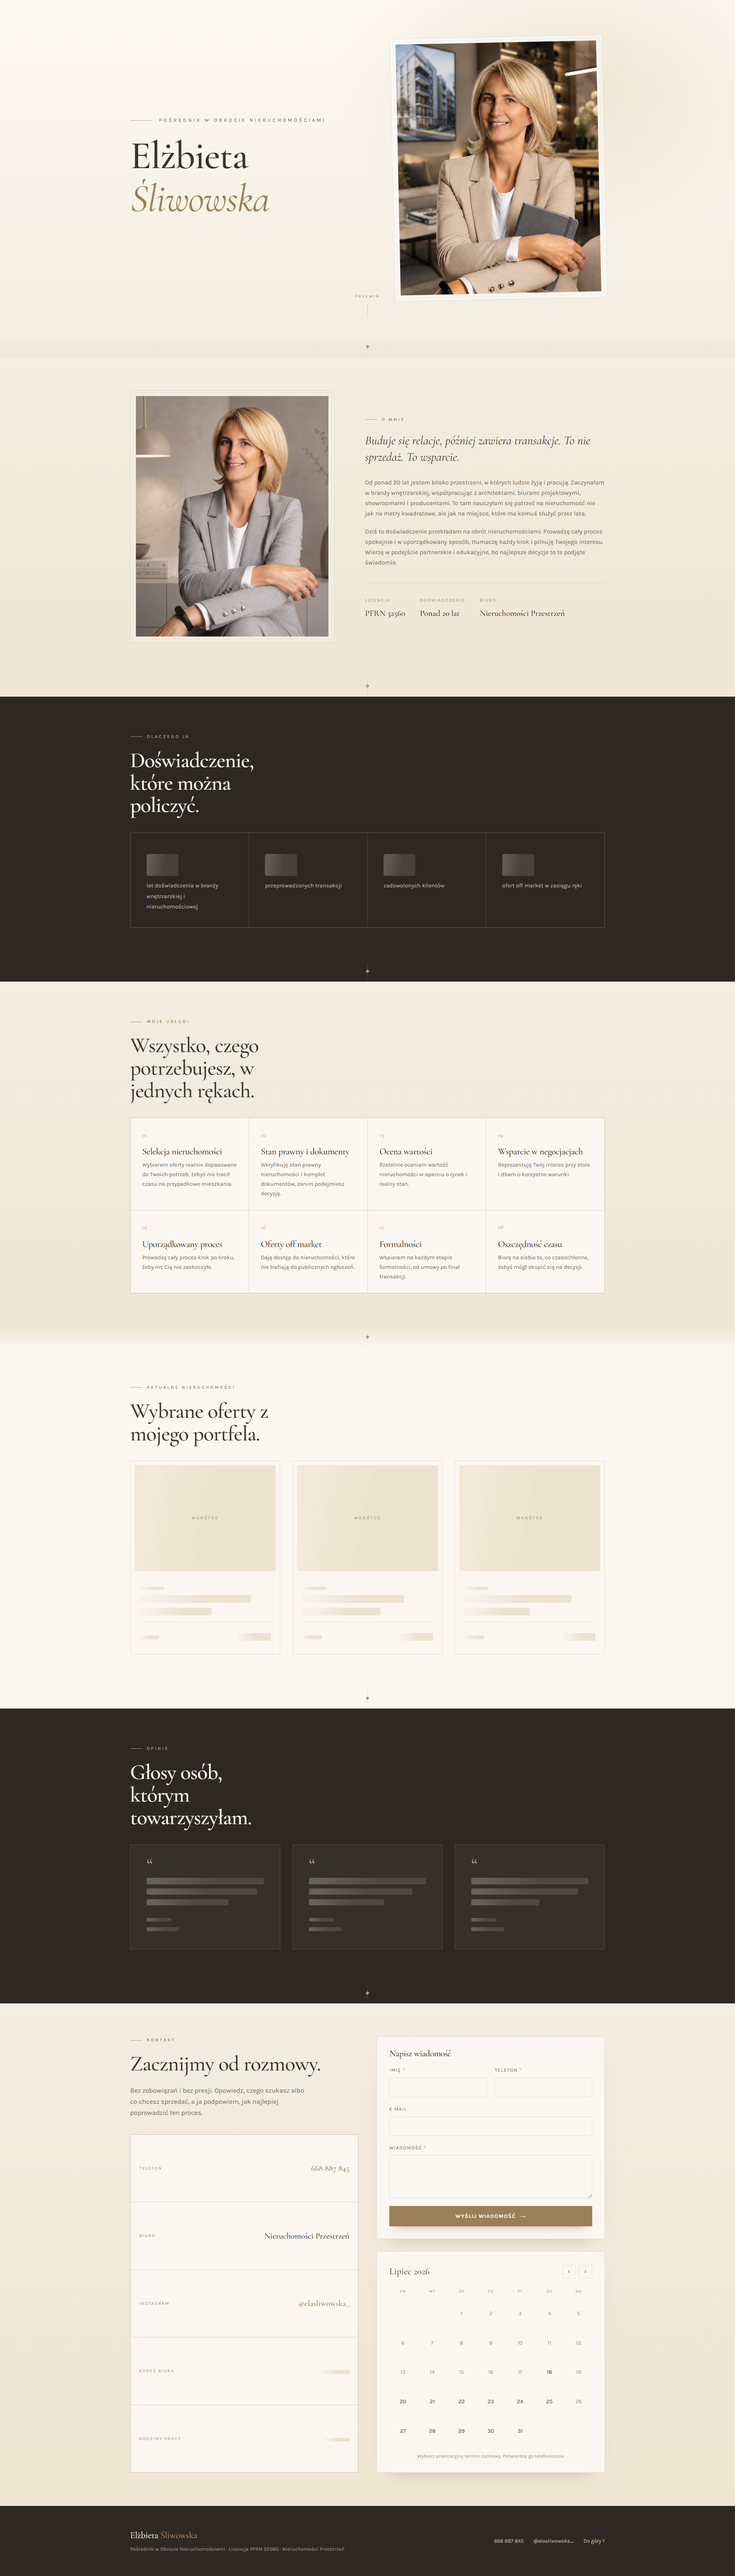
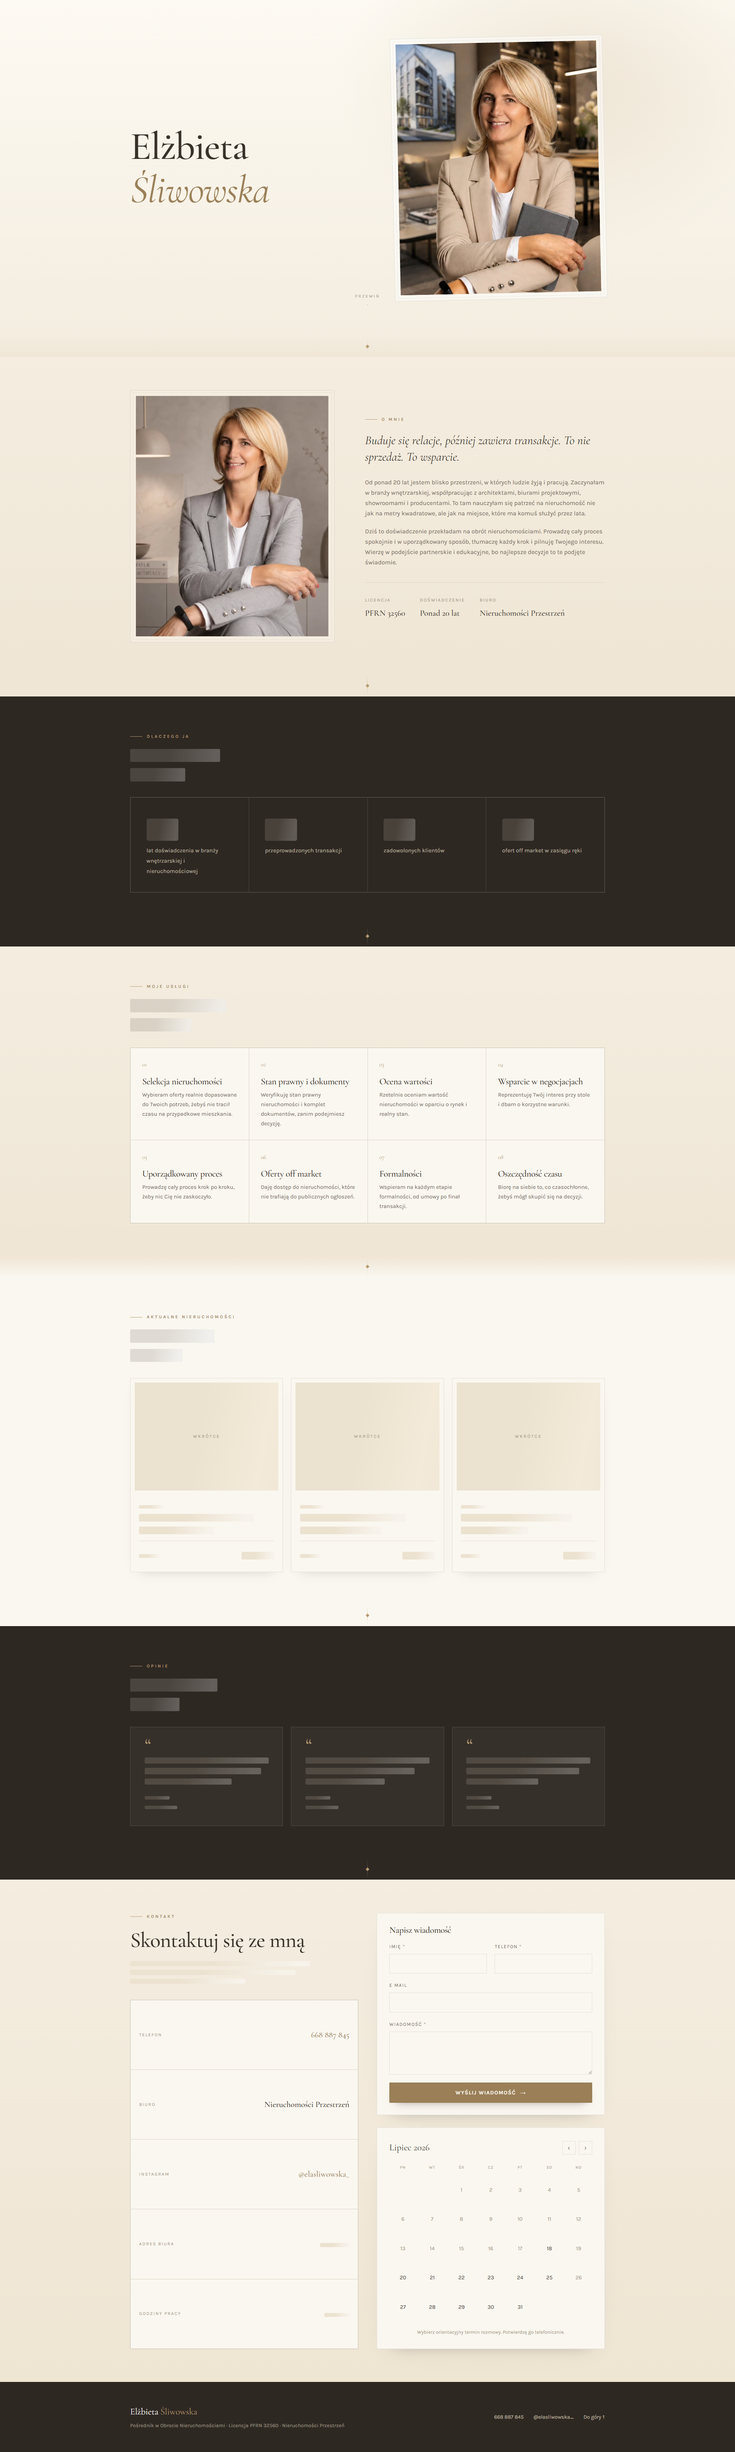
d

diff --git a/index.html b/index.html
@@ -61,6 +61,9 @@ img{display:block;max-width:100%}
 .skel-line{height:.72em;width:7ch;margin-block:.25em}
 .skel-lines{display:flex;flex-direction:column;gap:.55em;width:100%}
 .skel-lines .skel-line{margin:0;height:.78em}
+.h-sec .skel-lines{gap:.28em;max-width:16ch}
+.h-sec .skel-line{height:.62em;background:rgba(55,49,42,.14)}
+.band-dark .h-sec .skel-line{background:rgba(250,247,240,.14)}
 .soon{position:absolute;inset:0;z-index:3;display:flex;align-items:center;justify-content:center;font-size:.72rem;letter-spacing:.24em;text-transform:uppercase;color:var(--ink-faint)}
 @media(prefers-reduced-motion:reduce){.skel::after{animation:none}}
 
@@ -156,8 +159,7 @@ section{position:relative}
 .hero-copy h1{font-size:clamp(3rem,9vw,6.4rem);line-height:1.06}
 .hero-copy h1 span{display:block;padding-block:.02em}
 .hero-copy h1 .last{color:var(--accent-deep);font-style:italic}
-.hero-role{font-family:'Karla',sans-serif;font-size:clamp(.72rem,1.6vw,.84rem);letter-spacing:.34em;text-transform:uppercase;color:var(--ink-soft);display:flex;align-items:center;gap:1.1rem;margin-bottom:1.5rem}
-.hero-role::before{content:'';width:clamp(2rem,6vw,3.6rem);height:1px;background:var(--accent);transform-origin:left}
+.hero-role{position:absolute;left:1.4rem;bottom:1.4rem;font-family:'Karla',sans-serif;font-size:clamp(.6rem,1.1vw,.68rem);letter-spacing:.24em;text-transform:uppercase;color:#fff;white-space:nowrap;margin:0;padding:.55em 1em;background:rgba(20,18,16,.42);backdrop-filter:blur(6px)}
 .hero-media{position:relative}
 .hero-media .frame{transform:rotate(-1.2deg);background:rgba(255,255,255,.5)}
 .hero-scroll{position:absolute;left:50%;bottom:clamp(1.6rem,4vw,2.6rem);transform:translateX(-50%);font-size:.66rem;letter-spacing:.28em;text-transform:uppercase;color:var(--ink-faint);display:flex;flex-direction:column;align-items:center;gap:.7rem}
@@ -189,22 +191,22 @@ section{position:relative}
 .svc-item p{font-size:.92rem;color:var(--ink-soft)}
 @media(hover:hover){.svc-item:hover{background:var(--cream-2)}.svc-item:hover h3{color:var(--accent-deep)}}
 
-.props{display:grid;gap:clamp(1.5rem,3vw,2rem)}
-.prop{background:var(--cream);border:1px solid var(--line);transition:transform .4s var(--ease-out),box-shadow .4s ease}
+.props{display:grid;gap:clamp(1rem,1.6vw,1.3rem)}
+.prop{background:var(--cream);border:1px solid var(--line);box-shadow:0 16px 34px -28px rgba(55,49,42,.4);transition:transform .4s var(--ease-out),box-shadow .4s ease,border-color .4s ease}
 .prop .frame{padding:.7rem;border:none;background:transparent}
 .prop .frame::after{inset:.7rem;border-color:transparent}
 .prop .media{aspect-ratio:4/3}
-.prop-body{padding:1.4rem 1.5rem 1.8rem}
+.prop-body{padding:1.3rem 1.4rem 1.6rem}
 .prop-loc{font-size:.74rem;letter-spacing:.18em;text-transform:uppercase;color:var(--ink-faint);margin-bottom:.6rem}
 .prop-body h3{font-size:1.55rem;margin-bottom:1.1rem}
 .prop-foot{display:flex;justify-content:space-between;align-items:baseline;padding-top:1rem;border-top:1px solid var(--line);gap:1rem}
 .prop-foot .area{font-size:.9rem;color:var(--ink-soft)}
 .prop-foot .price{font-family:'Cormorant Garamond',serif;font-size:1.4rem;color:var(--accent-deep)}
-@media(hover:hover){.prop:hover{transform:translateY(-6px);box-shadow:0 26px 50px -30px rgba(55,49,42,.4)}}
+@media(hover:hover){.prop:hover{transform:translateY(-6px);box-shadow:0 28px 52px -28px rgba(55,49,42,.42);border-color:var(--accent)}}
 
-.quotes{display:grid;gap:clamp(1.5rem,3vw,2rem)}
-.quote{background:rgba(250,247,240,.04);border:1px solid rgba(236,226,208,.16);padding:clamp(1.9rem,3.2vw,2.6rem);display:flex;flex-direction:column;gap:1.6rem;transition:transform .4s var(--ease-out),background .4s ease}
-@media(hover:hover){.quote:hover{transform:translateY(-5px);background:rgba(250,247,240,.07)}}
+.quotes{display:grid;gap:clamp(1rem,1.6vw,1.3rem)}
+.quote{background:rgba(250,247,240,.04);border:1px solid rgba(236,226,208,.16);padding:clamp(1.7rem,2.6vw,2.3rem);display:flex;flex-direction:column;gap:1.4rem;transition:transform .4s var(--ease-out),background .4s ease,border-color .4s ease}
+@media(hover:hover){.quote:hover{transform:translateY(-5px);background:rgba(250,247,240,.07);border-color:rgba(236,226,208,.3)}}
 .quote .mark{font-family:'Cormorant Garamond',serif;font-size:3.2rem;line-height:.4;color:var(--accent);height:1.2rem}
 .quote p{font-family:'Cormorant Garamond',serif;font-size:1.3rem;font-style:italic;line-height:1.45;color:var(--cream-2);flex:1}
 .quote .who{font-size:.82rem;letter-spacing:.06em;color:rgba(236,226,208,.6)}
@@ -324,13 +326,13 @@ body.no-anim .reveal>*{opacity:1;transform:none}
 <header class="hero" id="start">
   <div class="shell hero-grid">
     <div class="hero-copy">
-      <p class="hero-role">Pośrednik w obrocie nieruchomościami</p>
-      <h1><span>Elżbieta</span><span class="last">Śliwowska</span></h1>
+      <h1><span id="heroFirstName">Elżbieta</span><span class="last">Śliwowska</span></h1>
     </div>
     <div class="hero-media">
       <div class="frame">
         <div class="media" style="aspect-ratio:4/5">
           <img src="assets/img/hero-elzbieta.jpg" alt="Elżbieta Śliwowska, pośrednik w obrocie nieruchomościami w Białymstoku" width="800" height="1000">
+          <p class="hero-role">Pośrednik w obrocie nieruchomościami</p>
         </div>
       </div>
     </div>
@@ -369,7 +371,7 @@ body.no-anim .reveal>*{opacity:1;transform:none}
   <div class="shell">
     <div class="stats-head reveal">
       <div class="tag"><span class="eyebrow">Dlaczego ja</span></div>
-      <h2 class="h-sec">Doświadczenie, które można policzyć.</h2>
+      <h2 class="h-sec"><span class="skel-lines" data-token="{{DLACZEGO_JA_TYTUL}}"><span class="skel skel-line" style="width:62%"></span><span class="skel skel-line" style="width:38%"></span></span></h2>
     </div>
     <!-- Liczby ponizej to placeholdery. Tokeny w data-token (Ctrl F). Nigdy nie wpisuj tu wymyslonych wartosci. -->
     <div class="stats reveal">
@@ -387,7 +389,7 @@ body.no-anim .reveal>*{opacity:1;transform:none}
   <div class="shell">
     <div class="stats-head reveal">
       <div class="tag"><span class="eyebrow">Moje usługi</span></div>
-      <h2 class="h-sec">Wszystko, czego potrzebujesz, w jednych rękach.</h2>
+      <h2 class="h-sec"><span class="skel-lines" data-token="{{MOJE_USLUGI_TYTUL}}"><span class="skel skel-line" style="width:66%"></span><span class="skel skel-line" style="width:42%"></span></span></h2>
     </div>
     <div class="svc reveal">
       <div class="svc-item"><span class="idx">01</span><h3>Selekcja nieruchomości</h3><p>Wybieram oferty realnie dopasowane do Twoich potrzeb, żebyś nie tracił czasu na przypadkowe mieszkania.</p></div>
@@ -408,7 +410,7 @@ body.no-anim .reveal>*{opacity:1;transform:none}
   <div class="shell">
     <div class="stats-head reveal">
       <div class="tag"><span class="eyebrow">Aktualne nieruchomości</span></div>
-      <h2 class="h-sec">Wybrane oferty z mojego portfela.</h2>
+      <h2 class="h-sec"><span class="skel-lines" data-token="{{NIERUCHOMOSCI_TYTUL}}"><span class="skel skel-line" style="width:58%"></span><span class="skel skel-line" style="width:36%"></span></span></h2>
     </div>
     <!-- Karty ponizej to placeholdery. Tokeny w data-token (Ctrl F): tytul, lokalizacja, metraz, cena. -->
     <div class="props reveal">
@@ -446,7 +448,7 @@ body.no-anim .reveal>*{opacity:1;transform:none}
   <div class="shell">
     <div class="stats-head reveal">
       <div class="tag"><span class="eyebrow">Opinie</span></div>
-      <h2 class="h-sec">Głosy osób, którym towarzyszyłam.</h2>
+      <h2 class="h-sec"><span class="skel-lines" data-token="{{OPINIE_TYTUL}}"><span class="skel skel-line" style="width:60%"></span><span class="skel skel-line" style="width:34%"></span></span></h2>
     </div>
     <!-- Sekcja przygotowana pod przyszle referencje. Tokeny w data-token (Ctrl F): tresc, autor, kontekst. -->
     <div class="quotes reveal">
@@ -475,8 +477,8 @@ body.no-anim .reveal>*{opacity:1;transform:none}
   <div class="shell contact-grid">
     <div class="contact-info reveal">
       <div class="tag"><span class="eyebrow">Kontakt</span></div>
-      <h2 class="h-sec">Zacznijmy od rozmowy.</h2>
-      <p class="lede">Bez zobowiązań i bez presji. Opowiedz, czego szukasz albo co chcesz sprzedać, a ja podpowiem, jak najlepiej poprowadzić ten proces.</p>
+      <h2 class="h-sec">Skontaktuj się ze mną</h2>
+      <p class="lede"><span class="skel-lines" data-token="{{KONTAKT_OPIS}}"><span class="skel skel-line" style="width:100%"></span><span class="skel skel-line" style="width:92%"></span><span class="skel skel-line" style="width:64%"></span></span></p>
       <div class="channels">
         <div class="channel"><span>Telefon</span><b><a href="tel:+48668887845">668 887 845</a></b></div>
         <div class="channel"><span>Biuro</span><b>Nieruchomości Przestrzeń</b></div>
